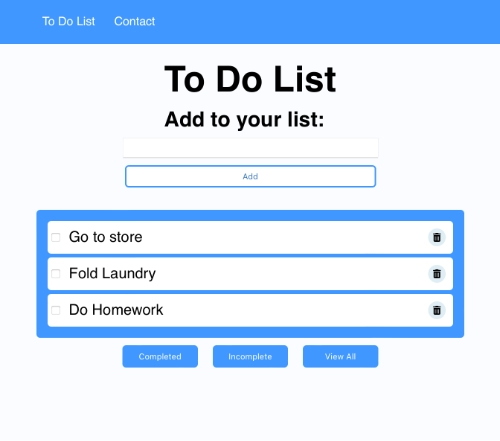
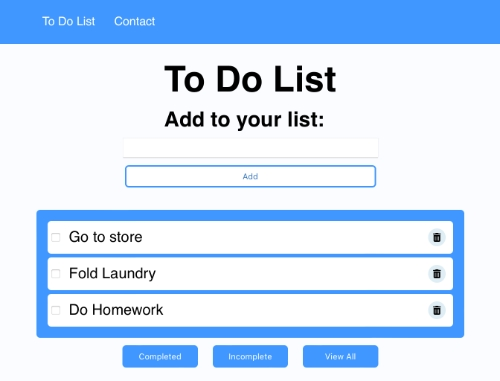
updated styling of homepage

Changed region(s): [[0.06, 0.3753, 0.93, 0.9816], [0.33, 0.1444, 0.69, 0.3465], [0.0, 0.0289, 1.0, 0.1155]]

diff --git a/Portfolio/src/pages/homepage.jsx b/Portfolio/src/pages/homepage.jsx
@@ -18,32 +18,51 @@ export default function HomePage() {
     </header>
     <div class="top-container"><h1>Hello, I'm Hayley Pyle, full-stack software developer.</h1></div>
     <div class="portfolio">
-        <div class="title"><h3>Portfolio</h3></div>
+        <div class="title"><h2>my portfolio</h2></div>
         <div class="project">
             <h3>Company Website</h3>
             <h5>September 2023</h5>
-            <img src={websiteImage}></img>
+            
+            <a href="https://hayleypyle.github.io/cgcwebsite/">
+            <img src={websiteImage}></img></a>
+
+            <div className="links">
             <a href="https://hayleypyle.github.io/cgcwebsite/">View Website</a>
             <a href="https://github.com/hayleypyle/cgcwebsite">Github Repo</a>
+            </div>
             <p>This is a website for Clinton Glass Company in Knoxville Tennessee.
                 The website has a nav bar, is responsive for mobile users, 
                 and contains many pages like galleries and a contact us form. </p>
+            
         </div>
         <div class="project">
             <h3>Website with Search Engine</h3>
             <h5>November 2023</h5>
-            <img src={gifFinderImage}></img>
+
+            <a href="https://hayleypyle.github.io/GIPHY-search/">
+            <img src={gifFinderImage}></img></a>
+
+
+            <div className="links">
             <a href="https://hayleypyle.github.io/GIPHY-search/">View Website</a>
             <a href="https://github.com/hayleypyle/GIPHY-search">Github Repo</a>
+            </div>
             <p>This website can search for gifs using the GIPHY API, and displays 
                 them in a grid for the user to view and choose from. </p>
         </div>
         <div class="project">
             <h3>To Do List with React and Redux</h3>
             <h5>January 2024</h5>
+
+            <a href="https://hayleypyle.github.io/ToDo-Redux/#/todos">
             <img src={todoImage}></img>
+            </a>
+
+
+            <div className="links">
             <a href="https://hayleypyle.github.io/ToDo-Redux/#/todos">View Website</a>
-            <a href="https://github.com/hayleypyle/GIPHY-search">Github Repo</a>
+            <a href="https://github.com/hayleypyle/ToDo-Redux">Github Repo</a>
+            </div>
             <p>An app built with React and Redux that is a functional to do list. 
                 Users can add tasks, delete tasks, check them as complete and filter tasks
                 by their completion status. </p>
@@ -51,9 +70,13 @@ export default function HomePage() {
         <div class="project">
             <h3>Stock Trading Portfolio with Python Django</h3>
             <h5>March 2024</h5>
-            <img src={paperTraderImage}></img>
+            <a href="https://paper-trader-7i1n.onrender.com/">
+            <img src={paperTraderImage}></img></a>
+
+            <div className="links">
             <a href="https://paper-trader-7i1n.onrender.com/">View Website</a>
             <a href="https://github.com/hayleypyle/Paper-Trader">Github Repo</a>
+            </div>
             <p>An app that displays current stock prices and graphs for 3 different companies. 
                 The user's portfolio can simulate buying and selling stocks and saves the user's portfolio history.</p>
 
@@ -61,9 +84,13 @@ export default function HomePage() {
         <div class="project">
             <h3>Forum website with user registration and login</h3>
             <h5>April 2024</h5>
-            <img src={scholarSyncImage}></img>
+            <a href="https://hayleypyle-scholarsync.netlify.app/">
+            <img src={scholarSyncImage}></img></a>
+
+            <div className="links">
             <a href="https://hayleypyle-scholarsync.netlify.app/">View Website</a>
             <a href="https://github.com/hayleypyle/ScholarSync">Github Repo</a>
+            </div>
             <p> A 3-tier architecture project that uses a database to store user login information,
                 questions submitted on the forum and answers from users, an application layer implementing node.js and express, and a presentation layer using React.
                 </p>

diff --git a/Portfolio/src/pages/styles.css b/Portfolio/src/pages/styles.css
@@ -3,29 +3,26 @@
     padding:0;
     
 }
-h1 {
-    font-family: "Montserrat", sans-serif;
-    font-optical-sizing: auto;
-    font-weight: 400;
-    font-style: normal;
+h1, h2 {
+    font-family: "Playfair Display", serif;
+    font-weight:400;
 }
 
-h3{
-    font-family: "Montserrat", sans-serif;
-    font-optical-sizing: auto;
-    font-weight: 600;
-    font-style: normal;
+h3, h5{
+    font-family: "Roboto", sans-serif;
+    font-weight:400;
 
 }
 
 body {
-    font-family: "BIZ UDPGothic", sans-serif;
-    font-weight: 400;
-    font-style: normal;
+    font-family: "Roboto", sans-serif;
+    font-weight:300;
 }
 
 header {
-    border-bottom:1px solid grey;
+    font-family: "Roboto", sans-serif;
+    font-weight:400;
+    box-shadow: rgba(60, 64, 67, 0.3) 0px 1px 2px 0px, rgba(60, 64, 67, 0.15) 0px 1px 3px 1px;
     height:10vh;
     display:flex;
     flex-direction: row;
@@ -39,7 +36,7 @@ a {
 }
 
 .top-container{
-    margin: 20px;
+    margin: 20px 20px 0px 20px;
     padding:10px;
     font-size:16px;
     height:20vh;
@@ -47,15 +44,13 @@ a {
     flex-direction:column;
     justify-content: center;
     align-items:center;
-    background-color:lightgrey;
-    border-radius:5px;
+
 
 }
 .title{
     width:100%;
-    padding-top:20px;
     text-align:center;
-    font-size:20px;
+
 }
 .portfolio{
     display:flex;
@@ -63,29 +58,34 @@ a {
     flex-wrap:wrap;
     align-items: center;
     justify-content: center;
-    margin:30px;
-    border:1px solid black;
+    /* border:1px solid black; */
 
 }
 
 .project{
     height:300px;
     width:40%;
-    border:1px solid grey;
-    border-radius:3px;
-    padding:10px;
+    padding:20px;
     margin:10px;
     display:flex;
     flex-direction:column;
     justify-content: space-between;
     align-items:center;
     font-size:14px;
+    box-shadow: rgba(99, 99, 99, 0.2) 0px 2px 8px 0px;
 }
 
 img{
     width:200px;
 }
 
+.links{
+    display:flex;
+    flex-direction:row;
+    align-items: center;
+    justify-content: space-evenly;
+    width:50%;
+}
 iFrame{
     width: 80vw;
     height:80vh;

diff --git a/index.html b/index.html
@@ -30,8 +30,10 @@
         </div>
         <div className="project">
             <h3>Website with Search Engine</h3>
+            <div className="links">
             <a href="https://hayleypyle.github.io/GIPHY-search/">View Website</a>
             <a href="https://github.com/hayleypyle/GIPHY-search">Github Repo</a>
+            </div>
             <p>This website can search for gifs using the GIPHY API, and displays 
                 them in a grid for the user to view and choose from. </p>
         </div>
@@ -45,8 +47,11 @@
         </div>
         <div className="project">
             <h3>Stock Trading Portfolio with Python Django</h3>
-            <a href="https://paper-trader-7i1n.onrender.com/">View Website</a>
-            <a href="https://github.com/hayleypyle/Paper-Trader">Github Repo</a>
+            <div className="links">
+                <a href="https://paper-trader-7i1n.onrender.com/">View Website</a>
+                <a href="https://github.com/hayleypyle/Paper-Trader">Github Repo</a>
+            </div>
+            
             <p>An app that displays current stock prices and graphs for 3 different companies. 
                 The user's portfolio can simulate buying and selling stocks and saves the user's portfolio history.</p>
 

diff --git a/Portfolio/index.html b/Portfolio/index.html
@@ -4,6 +4,9 @@
     <meta charset="UTF-8" />
     <link rel="icon" type="image/svg+xml" href="/vite.svg" />
     <meta name="viewport" content="width=device-width, initial-scale=1.0" />
+    <link rel="preconnect" href="https://fonts.googleapis.com">
+<link rel="preconnect" href="https://fonts.gstatic.com" crossorigin>
+<link href="https://fonts.googleapis.com/css2?family=Playfair+Display:ital,wght@0,400..900;1,400..900&family=Roboto:ital,wght@0,100;0,300;0,400;0,500;0,700;0,900;1,100;1,300;1,400;1,500;1,700;1,900&display=swap" rel="stylesheet">
     <title>Hayley Pyle Portfolio</title>
   </head>
   <body>
